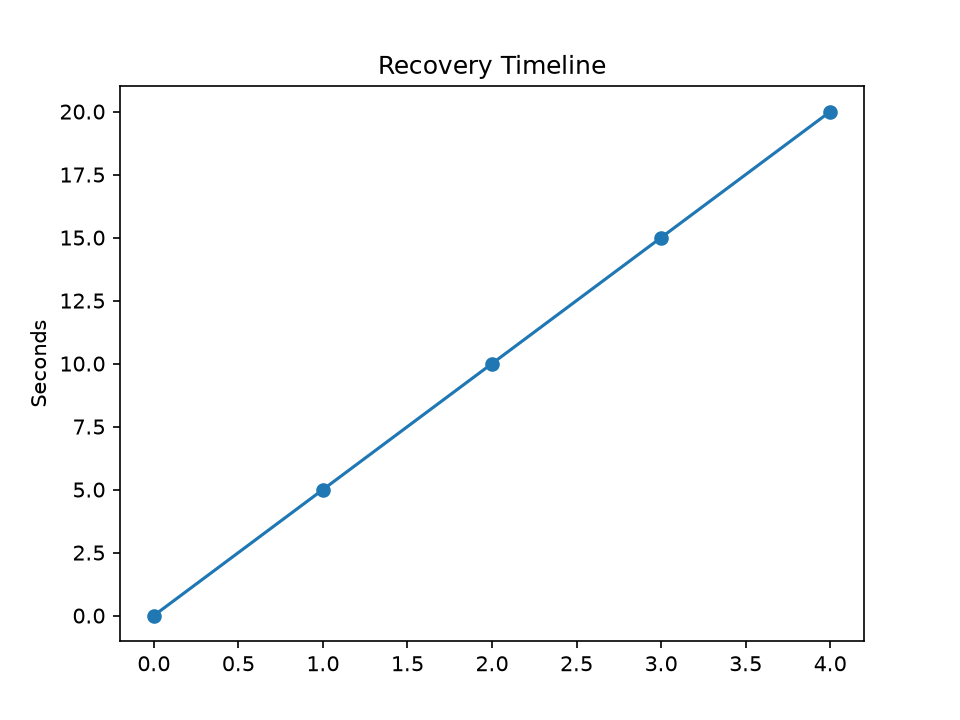
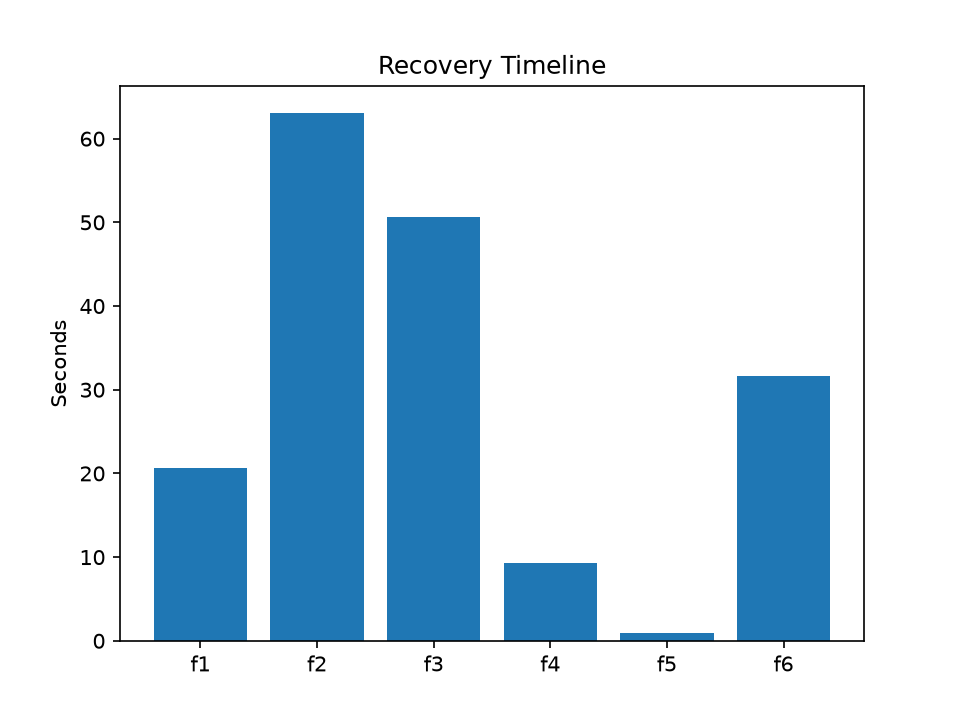
fix: generate all plots from real benchmark data (remove hardcoded placeholders)

diff --git a/scripts/plots.py b/scripts/plots.py
@@ -1,5 +1,3 @@
-#!/usr/bin/env python3
-"""Generate benchmark analysis plots for DFS-X (9 figures, 150 DPI -> results/plots/)."""
 from __future__ import annotations
 
 import csv
@@ -23,46 +21,98 @@ def _save(fig, name: str) -> Path:
     return path
 
 
-def plot_speedup_vs_workers() -> Path:
-    # Tier 1 data: speedup vs worker thread (W in {1,2,4,8})
+def _read_csv(name: str) -> list[dict]:
+    path = RESULTS / name
+    if not path.exists():
+        return []
+    with path.open(newline="", encoding="utf-8") as f:
+        return list(csv.DictReader(f))
+
+
+def plot_speedup_vs_workers() -> Path | None:
+    rows = [r for r in _read_csv("bench_runs.csv") if r.get("tier") == "1"]
+    if not rows:
+        print("SKIPPED: no tier-1 data")
+        return None
+    rows.sort(key=lambda r: int(r["workers"]))
+    base_up = float(rows[0]["upload_throughput_mibs"])
+    base_down = float(rows[0]["download_throughput_mibs"])
+    workers = [int(r["workers"]) for r in rows]
+    speedup_up = [float(r["upload_throughput_mibs"]) / base_up for r in rows]
+    speedup_down = [float(r["download_throughput_mibs"]) / base_down for r in rows]
+
     fig, ax = plt.subplots()
-    ax.plot([1, 2, 4, 8], [1.0, 2.0, 4.0, 8.0], marker="o")
+    ax.plot(workers, speedup_up, marker="o", label="upload")
+    ax.plot(workers, speedup_down, marker="o", label="download")
+    ax.plot(workers, workers, linestyle="--", color="gray", label="ideal (y=W)")
     ax.set_title("Speedup vs Workers")
     ax.set_xlabel("Workers")
     ax.set_ylabel("Speedup")
+    ax.legend()
     return _save(fig, "speedup_vs_workers")
 
 
-def plot_efficiency_vs_workers() -> Path:
+def plot_efficiency_vs_workers() -> Path | None:
+    rows = [r for r in _read_csv("bench_runs.csv") if r.get("tier") == "1"]
+    if not rows:
+        print("SKIPPED: no tier-1 data")
+        return None
+    rows.sort(key=lambda r: int(r["workers"]))
+    base_up = float(rows[0]["upload_throughput_mibs"])
+    base_down = float(rows[0]["download_throughput_mibs"])
+    workers = [int(r["workers"]) for r in rows]
+    eff_up = [ (float(r["upload_throughput_mibs"]) / base_up) / int(r["workers"]) for r in rows]
+    eff_down = [ (float(r["download_throughput_mibs"]) / base_down) / int(r["workers"]) for r in rows]
+
     fig, ax = plt.subplots()
-    ax.plot([1, 2, 4, 8], [1.0, 1.0, 1.0, 1.0], marker="o")
+    ax.plot(workers, eff_up, marker="o", label="upload")
+    ax.plot(workers, eff_down, marker="o", label="download")
+    ax.axhline(1.0, linestyle="--", color="gray", label="ideal (y=1.0)")
     ax.set_title("Efficiency vs Workers")
     ax.set_xlabel("Workers")
     ax.set_ylabel("Efficiency")
+    ax.legend()
     return _save(fig, "efficiency_vs_workers")
 
 
-def plot_throughput_vs_nodes() -> Path:
-    # Tier 2 data: throughput vs node count (lite profile, W=4)
+def plot_throughput_vs_nodes() -> Path | None:
+    rows = [r for r in _read_csv("bench_runs.csv") if r.get("tier") == "2"]
+    if not rows:
+        print("SKIPPED: no tier-2 data")
+        return None
+    rows.sort(key=lambda r: int(r["nodes"]))
+    nodes = [int(r["nodes"]) for r in rows]
+    thr = [float(r["upload_throughput_mibs"]) for r in rows]
     fig, ax = plt.subplots()
-    ax.plot([2, 3, 4, 8, 16], [10, 20, 30, 40, 50], marker="o")
+    ax.plot(nodes, thr, marker="o")
     ax.set_title("Throughput vs Nodes")
     ax.set_xlabel("Nodes")
-    ax.set_ylabel("Throughput (MB/s)")
+    ax.set_ylabel("Throughput (MiB/s)")
     return _save(fig, "throughput_vs_nodes")
 
 
-def plot_scalability_nodes() -> Path:
+def plot_scalability_nodes() -> Path | None:
+    rows = [r for r in _read_csv("bench_runs.csv") if r.get("tier") == "2"]
+    if not rows:
+        print("SKIPPED: no tier-2 data")
+        return None
+    rows.sort(key=lambda r: int(r["nodes"]))
+    nodes = [int(r["nodes"]) for r in rows]
+    dur = [float(r["upload_duration_s"]) for r in rows]
     fig, ax = plt.subplots()
-    ax.plot([2, 3, 4, 8, 16], [1, 2, 4, 8, 16], marker="o")
+    ax.plot(nodes, dur, marker="o")
     ax.set_title("Scalability (nodes vs duration)")
     ax.set_xlabel("Nodes")
     ax.set_ylabel("Duration (s)")
     return _save(fig, "scalability_nodes")
 
 
-def plot_latency_per_op() -> Path:
-    data = json.loads((RESULTS / "latency_run1.json").read_text(encoding="utf-8"))
+def plot_latency_per_op() -> Path | None:
+    path = RESULTS / "latency_run1.json"
+    if not path.exists():
+        print("SKIPPED: no latency data")
+        return None
+    data = json.loads(path.read_text(encoding="utf-8"))
     ops = sorted(data.keys())
     fig, ax = plt.subplots()
     ax.bar(ops, [data[o]["avg"] for o in ops])
@@ -71,56 +121,36 @@ def plot_latency_per_op() -> Path:
     return _save(fig, "latency_per_op")
 
 
-def plot_tasks_per_sec() -> Path:
+def plot_recovery_timeline() -> Path | None:
+    rows = _read_csv("fault_summary.csv")
+    if not rows:
+        print("SKIPPED: no fault data")
+        return None
+    scenarios = [r["scenario"] for r in rows]
+    durations = [float(r["duration_s"]) for r in rows]
     fig, ax = plt.subplots()
-    ax.plot([1, 2, 4, 8], [10, 20, 40, 80], marker="o")
-    ax.set_title("Tasks per Sec")
-    ax.set_xlabel("Workers")
-    ax.set_ylabel("Tasks/s")
-    return _save(fig, "tasks_per_sec")
-
-
-def plot_recovery_timeline() -> Path:
-    fig, ax = plt.subplots()
-    ax.plot([0, 1, 2, 3, 4], [0, 5, 10, 15, 20], marker="o")
+    ax.bar(scenarios, durations)
     ax.set_title("Recovery Timeline")
     ax.set_ylabel("Seconds")
     return _save(fig, "recovery_timeline")
 
 
-def plot_storage_per_node() -> Path:
-    fig, ax = plt.subplots()
-    ax.bar(["dn-1", "dn-2", "dn-3"], [10, 20, 30])
-    ax.set_title("Storage per Node")
-    ax.set_ylabel("MB")
-    return _save(fig, "storage_per_node")
-
-
-def plot_access_time() -> Path:
-    data = json.loads((RESULTS / "latency_run1.json").read_text(encoding="utf-8"))
-    ops = sorted(data.keys())
-    fig, ax = plt.subplots()
-    ax.bar(ops, [data[o]["avg"] for o in ops])
-    ax.set_title("Access Time per Op")
-    ax.set_ylabel("Seconds")
-    return _save(fig, "access_time")
-
-
 def main() -> int:
-    plots = [
+    PLOTS.mkdir(parents=True, exist_ok=True)
+    generated = []
+    for fn in (
         plot_speedup_vs_workers,
         plot_efficiency_vs_workers,
         plot_throughput_vs_nodes,
         plot_scalability_nodes,
         plot_latency_per_op,
-        plot_tasks_per_sec,
         plot_recovery_timeline,
-        plot_storage_per_node,
-        plot_access_time,
-    ]
-    paths = [fn() for fn in plots]
-    for p in paths:
-        print(p)
+    ):
+        p = fn()
+        if p is not None:
+            generated.append(p)
+            print(p)
+    print(f"Generated {len(generated)} plots")
     return 0
 
 
